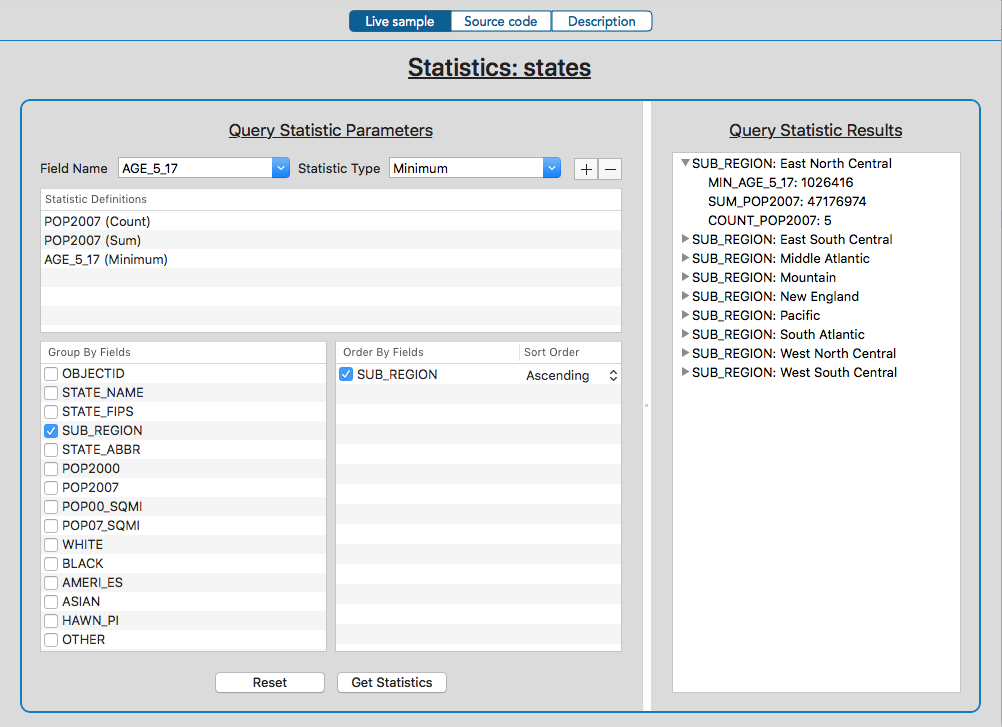
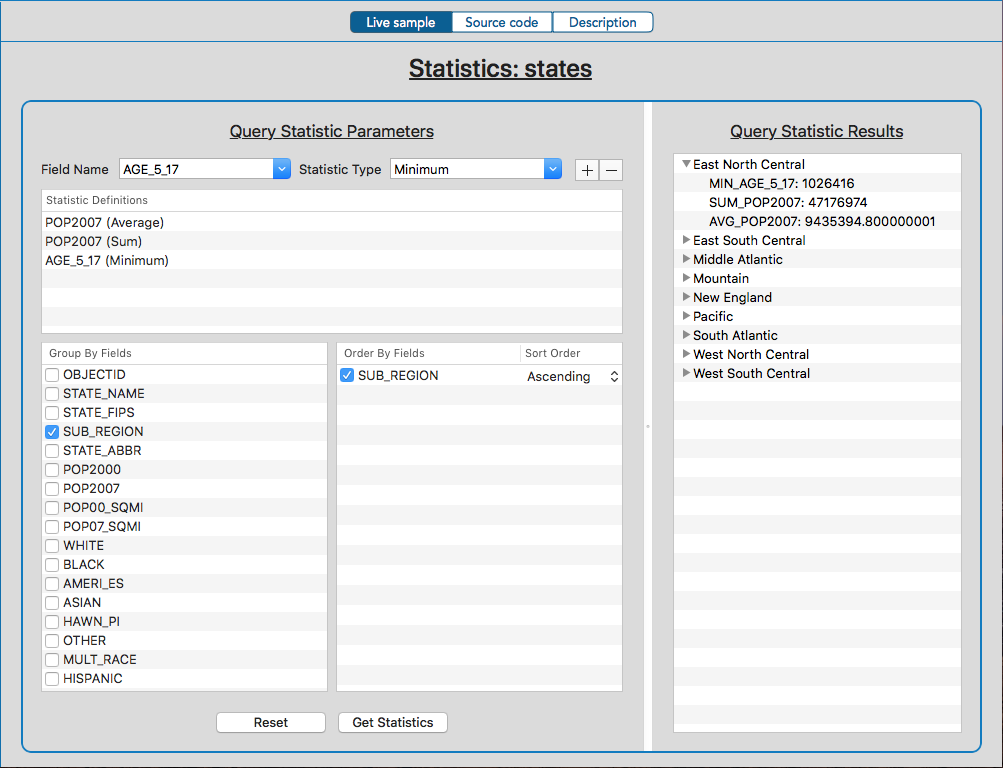
fixed result and created new image

Changed region(s): [[0.0, 0.0, 1.0, 0.5447], [0.0309, 0.4237, 0.6188, 0.9684], [0.0, 0.9986, 1.0, 1.0]]

diff --git a/arcgis-runtime-samples-macos/Analysis/Statistical query (group and sort)/StatisticalQueryGroupAndSortViewController.swift b/arcgis-runtime-samples-macos/Analysis/Statistical query (group and sort)/StatisticalQueryGroupAndSortViewController.swift
@@ -143,16 +143,14 @@ class StatisticalQueryGroupAndSortViewController: NSViewController, NSTableViewD
                 selectedGroupByFieldNames.remove(at: index!)
                 
                 // Remove field from the order by fields
-                for i in (0..<orderByFields.count).reversed() {
-                    let orderByField = orderByFields[i]
+                for (i,orderByField) in orderByFields.enumerated().reversed() {
                     if orderByField.fieldName == fieldName {
                         orderByFields.remove(at: i)
                     }
                 }
                 
                 // Remove field from the selected order by fields
-                for i in (0..<selectedOrderByFields.count).reversed() {
-                    let selectedOrderByField = selectedOrderByFields[i]
+                for (i,selectedOrderByField) in selectedOrderByFields.enumerated().reversed() {
                     if selectedOrderByField.fieldName == fieldName {
                         selectedOrderByFields.remove(at: i)
                     }
@@ -259,8 +257,9 @@ class StatisticalQueryGroupAndSortViewController: NSViewController, NSTableViewD
         let cellView = outlineView.make(withIdentifier: "StatisticRecordCellView", owner: self) as! NSTableCellView
         if let statisticRecord = item as? AGSStatisticRecord {
             var groups = [String]()
-            for (key, value) in (statisticRecord.group)  {
-                groups.append("\(key): \(value)")
+            for fieldName in selectedGroupByFieldNames {
+                let value = statisticRecord.group[fieldName] as! String
+                groups.append("\(value)")
             }
             cellView.textField?.stringValue = groups.joined(separator: ", ")
         }
